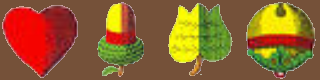
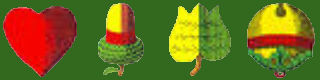
Fixed method for creating new deck, changed css colors

diff --git a/frontend/src/views/MauView.vue b/frontend/src/views/MauView.vue
@@ -311,7 +311,12 @@ export default {
 
     takeCardFromDeck(pushTo, player, animDelay) {
       if (this.cards.deck.length === 0) {
-        this.shuffleNewDeck(this.cards.playedCards);
+        let cardsToShuffle = [];
+        for (let i = 0; i < this.cards.playedCards.length-1; i++) {
+            cardsToShuffle[i] = this.cards.playedCards[i];
+        }
+        this.shuffleNewDeck(cardsToShuffle);
+        this.cards.playedCards.splice(0, this.cards.playedCards.length-1);
       }
       this.drawAnimation(player, animDelay);
       setTimeout(() => {
@@ -437,10 +442,9 @@ export default {
 
     shuffleNewDeck(cardsToShuffle) {
       cardsToShuffle.sort(() => Math.random() - 0.5);
-      for (let i = 0; i < cardsToShuffle.length-2; i++) {
+      for (let i = 0; i < cardsToShuffle.length-1; i++) {
         this.cards.deck.push(cardsToShuffle[i]);
       }
-      this.cards.playedCards.splice(0, this.cards.playedCards.length-1);
     },
 
     aceToggle() {
@@ -597,8 +601,8 @@ export default {
         cursor: pointer;
     }
     .gameboard__choosing-table {
-        background-color: #e3b587;
-        color: #755139FF;
+        background-color: #8bc34a ;
+        color: #33691e;
         position: absolute;
         font-size: 30px;
         padding: 20px;
@@ -609,8 +613,8 @@ export default {
         left: -250px;
     }
     .gameboard__ace-button {
-        background-color: #755139FF;
-        color: #D4B996FF;
+        background-color: #33691e;
+        color: #b2ff59;
         width: 80px;
         border-radius: 5px;
         margin-top: 40px;

diff --git a/frontend/src/assets/css/style.css b/frontend/src/assets/css/style.css
@@ -1,8 +1,8 @@
 .header {
   position: fixed;
   z-index: 1;
-  background-color: #e3b587;
-  color: #CD7700;
+  background-color: #8bc34a;
+  color: #33691e;
   height: 75px;
   width: 100%;
   font-weight: bold;
@@ -24,8 +24,8 @@
   border-radius: 40px;
   font-weight: bold;
   cursor: pointer;
-  background-color: #755139;
-  color: #d4b996;
+  background-color: #558b2f;
+  color: #ccff90;
   width: 100px;
   height: 35px;
   margin: 0 20px;
@@ -35,8 +35,8 @@
   border-radius: 40px;
   font-weight: bold;
   cursor: pointer;
-  background-color: #CD7700;
-  color: #412525;
+  background-color: #33691e;
+  color: #b2ff59;
   font-size: 18px;
   width: 140px;
   height: 45px;
@@ -51,7 +51,7 @@
 }
 
 .content {
-  color: #d4b996;
+  color: #ccff90;
   display: flex;
   justify-content: center;
   width: 100%;

diff --git a/scss/header.scss b/scss/header.scss
@@ -42,7 +42,7 @@
     &__sign-in {
         @include button-view;
         background-color: $btn2-color;
-        color: #412525;
+        color: #b2ff59;
         font-size: 18px;
         width: 140px;
         height: 45px;

diff --git a/scss/colors.scss b/scss/colors.scss
@@ -1,5 +1,4 @@
-//$bgc-color: #F2EDD7FF;
-$bgc-color: #e3b587;
-$text-color: #D4B996FF;
-$btn-color: #755139FF;
-$btn2-color: #CD7700;
+$bgc-color: #8bc34a;
+$text-color: #ccff90;
+$btn-color: #558b2f;
+$btn2-color: #33691e ;
